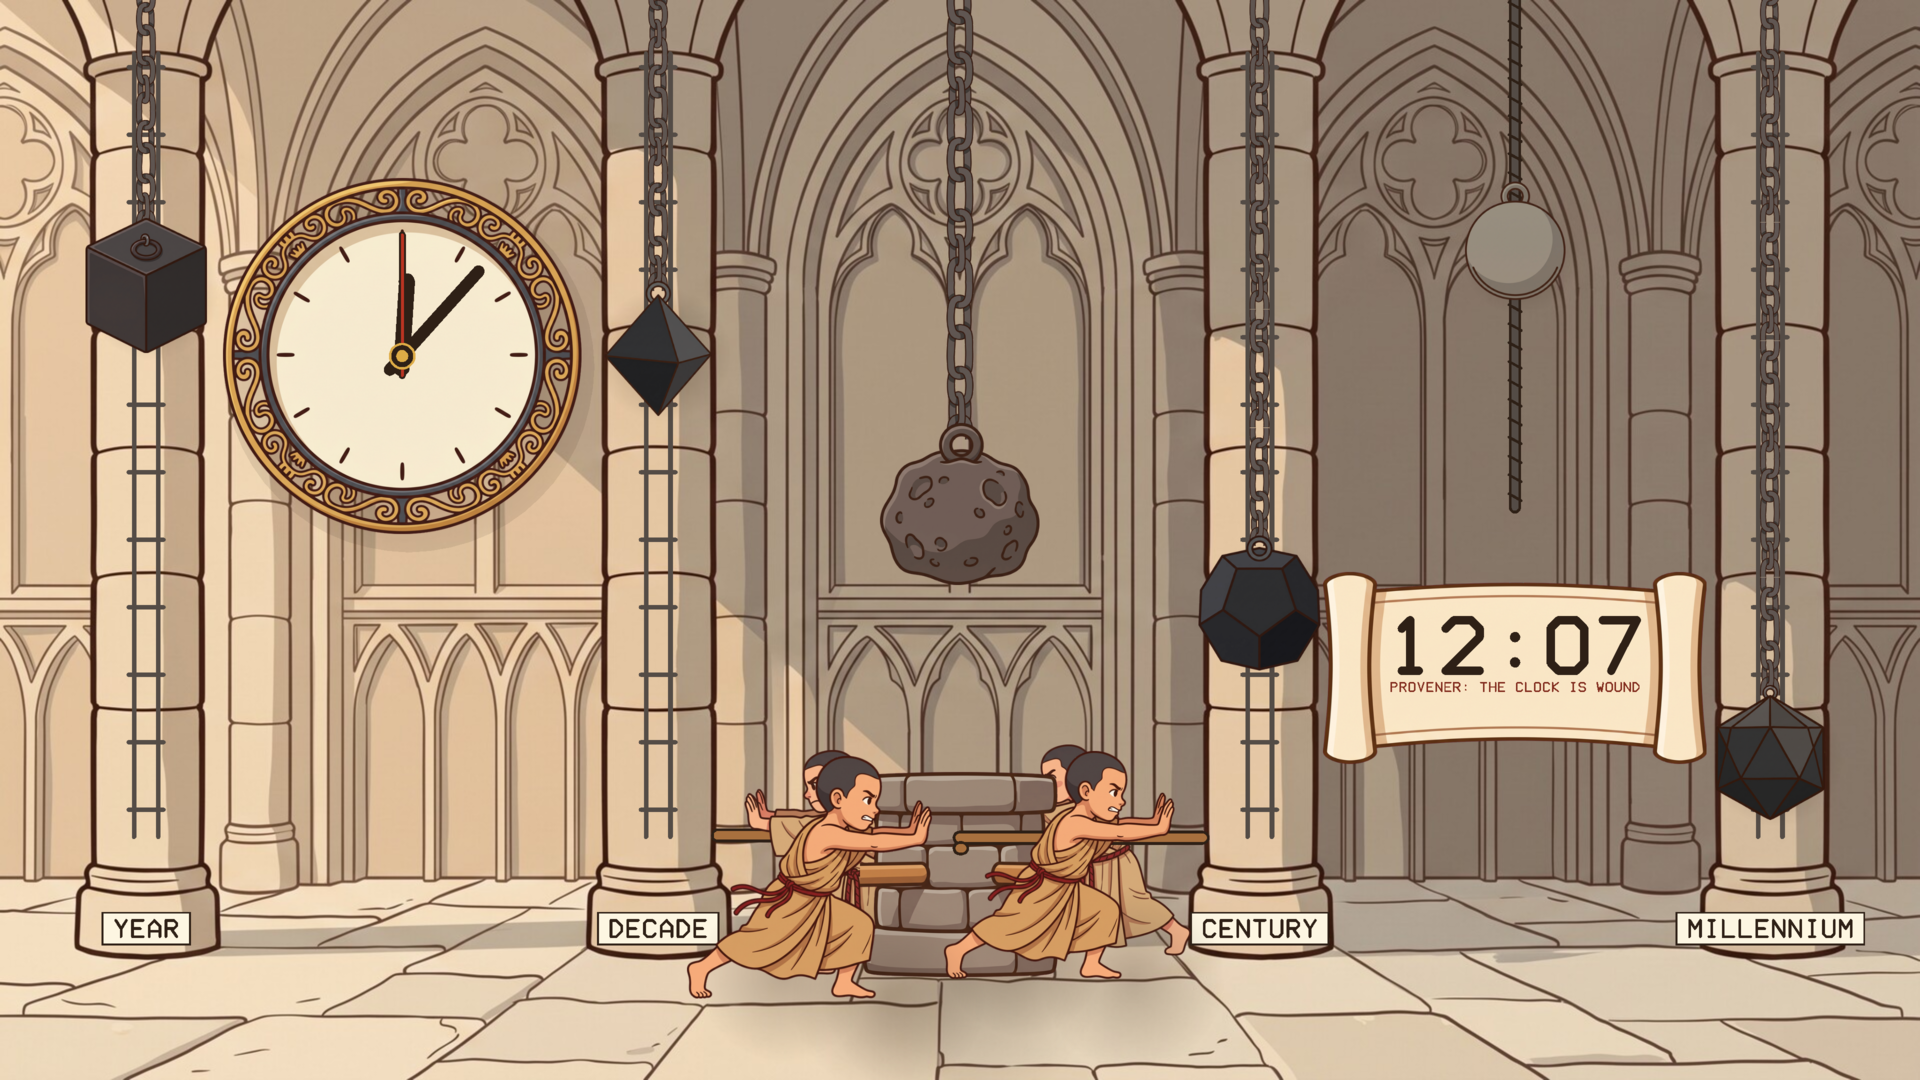
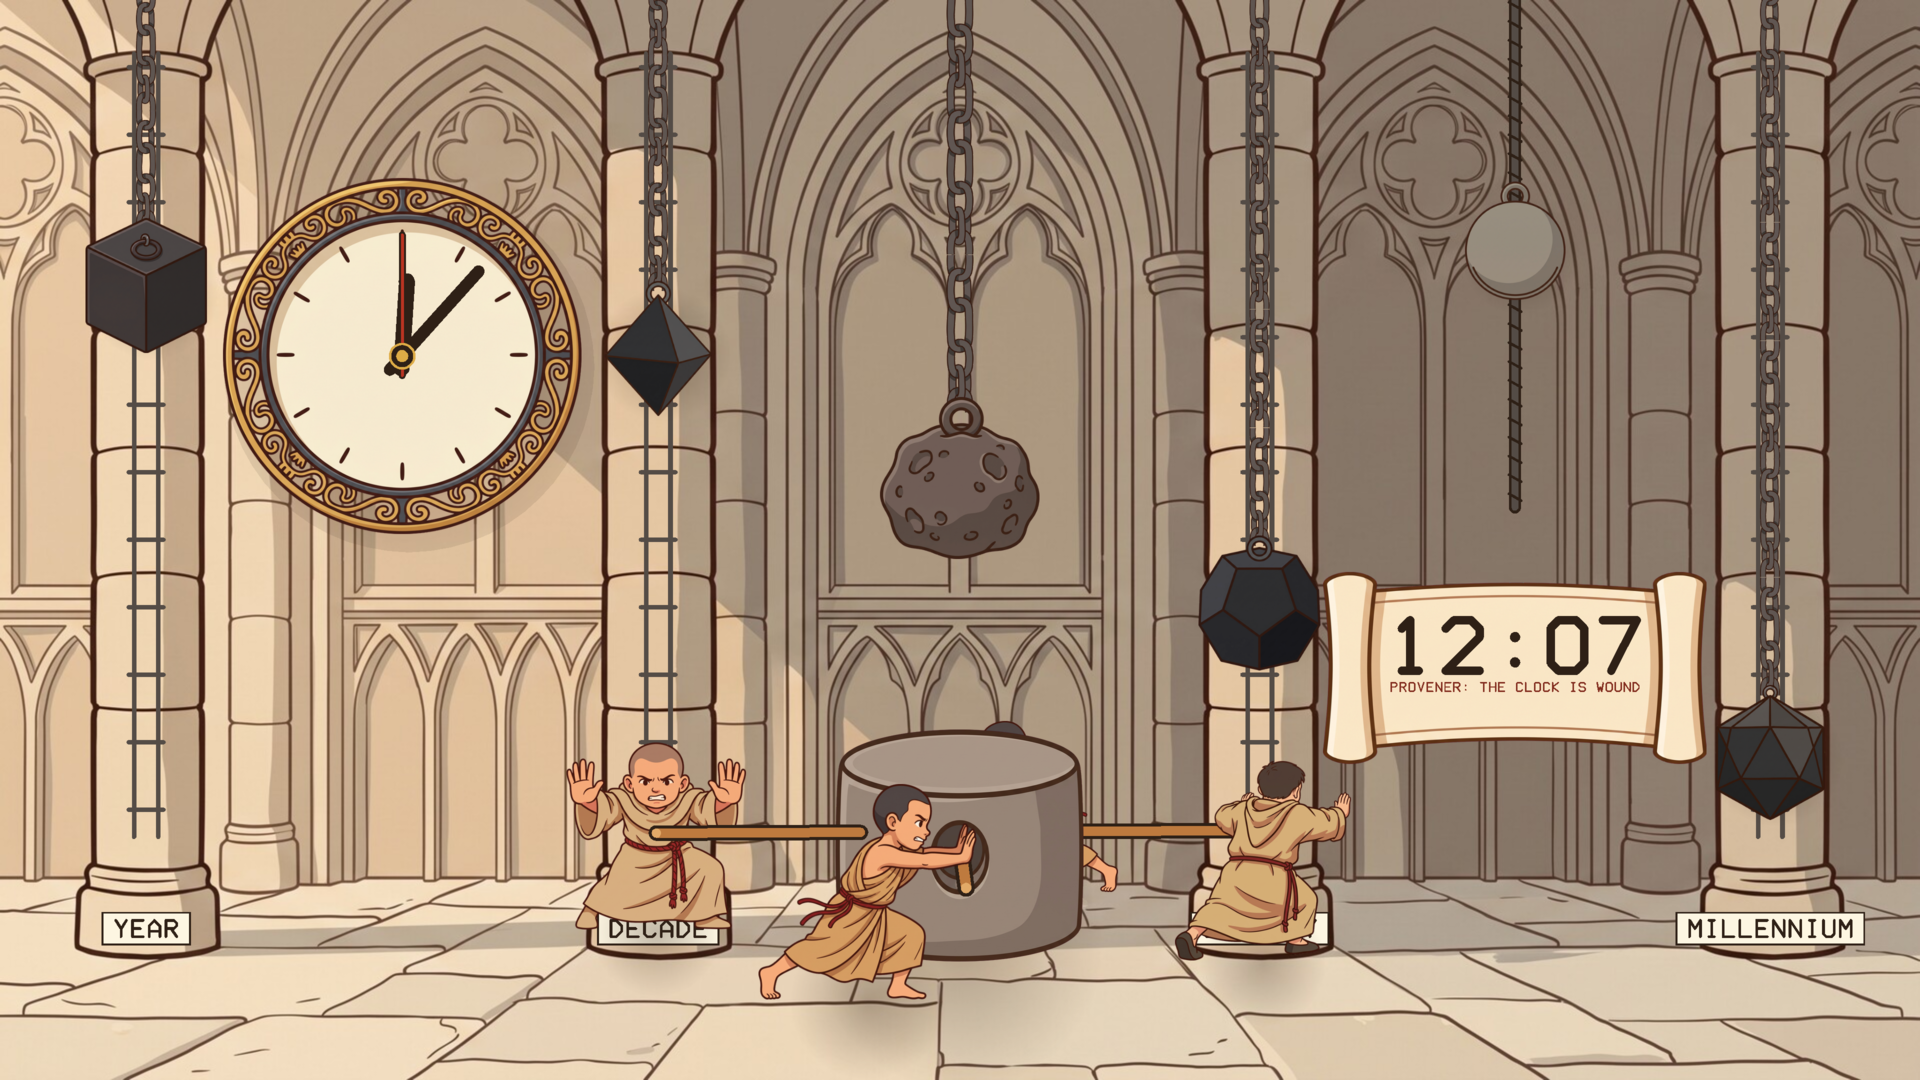
1.0.1: front and back views of the fraas at the capstan, and a plain hub

diff --git a/src/clock.c b/src/clock.c
@@ -441,7 +441,7 @@ static void draw_scene(SDL_Renderer *r, int w, int h)
     pic(SP_SPHERE, sx, sy, s_tall, 0.5, 0.56);
 
     /* the meteorite on the main chain, down the middle */
-    double cx = w * 0.5, floor_y = h * 0.93, hub_tall = h * 0.235;
+    double cx = w * 0.5, floor_y = h * 0.93, hub_tall = h * 0.215;
     double m_top = h * 0.13, m_bot = floor_y - hub_tall - h * 0.15, mt = h * 0.15;
     double my = m_top + meteorite_drop() * (m_bot - m_top);
     draw_chain(cx, 0, my - mt * 0.4, unit * 2.0);
@@ -449,9 +449,9 @@ static void draw_scene(SDL_Renderer *r, int w, int h)
 
     /* the hub, and at Provener the four who wind it */
     int wind = winding();
-    double rx = w * 0.13, ry = h * 0.05, ccy = floor_y - ry, pole_y = ccy - hub_tall * 0.5;
-    double ang = wind ? -anim_t * 0.75 : M_PI / 4, tall = hub_tall * 0.5 / 0.64;
-    double hub_w = hub_tall * sprite[SP_HUB].w / sprite[SP_HUB].h;
+    double rx = w * 0.158, ry = h * 0.052, ccy = floor_y - ry, pole_y = ccy - hub_tall * 0.5;
+    double ang = wind ? -anim_t * 0.75 : M_PI / 4, tall = hub_tall * 0.5 / 0.6;
+    double hub_w = hub_tall * sprite[SP_HUB].w / sprite[SP_HUB].h * 0.8;
     for (int pass = 0; pass < 2; pass++) {
         if (pass) {
             disc(cx, ccy, hub_tall * 0.62, col(INK, 0.3), col(INK, 0));

diff --git a/tools/make_sprites.py b/tools/make_sprites.py
@@ -1,7 +1,6 @@
 #!/usr/bin/env python3
 """Turn the drawings in assets/src into the pictures the screensaver builds in,
-under assets/art. (assets/art/hub.png was touched up by hand to take out the two
-poles drawn into it, so it is not regenerated here.)
+under assets/art.
 
     tools/make_sprites.py
 
@@ -16,7 +15,8 @@ import numpy as np
 SRC, OUT = "assets/src", "assets/art"
 OBJECTS = {  # name: height in pixels, or ("w", width)
     "meteorite": 380, "cube": 320, "octahedron": 340, "dodecahedron": 330, "icosahedron": 340, "sphere": 300,
-    "dial": 760, "push1": 440, "push2": 440, "banner": ("w", 900),
+    "dial": 760, "hub": ("w", 620), "push1": 440, "push2": 440, "push_toward": 420, "push_away": 440,
+    "banner": ("w", 900),
 }
 
 def load(path):

diff --git a/README.md b/README.md
@@ -51,7 +51,7 @@ Packages are on the [releases page](../../releases).
 
 ### Windows
 
-Run `EdharClock-Setup-1.0.0.exe`. It asks for administrator rights, because Windows
+Run `EdharClock-Setup-1.0.1.exe`. It asks for administrator rights, because Windows
 only lists screensavers that are in its own system folder. After that "The Clock of
 Saunt Edhar" is in Screen Saver Settings with the others, already selected.
 Uninstall from Apps.
@@ -60,11 +60,11 @@ Uninstall from Apps.
 
 **Fedora, Nobara** (built on Fedora 44):
 
-    sudo dnf install ./edhar-clock-1.0.0-1.fc44.x86_64.rpm
+    sudo dnf install ./edhar-clock-1.0.1-1.fc44.x86_64.rpm
 
 **Debian, Ubuntu, Mint** (Ubuntu 24.04 / Debian 13 or later):
 
-    sudo apt install ./edhar-clock_1.0.0_amd64.deb
+    sudo apt install ./edhar-clock_1.0.1_amd64.deb
 
 From your next login it starts by itself after five minutes idle, and any key or
 mouse movement ends it. To start the watcher without logging out, or to change the
